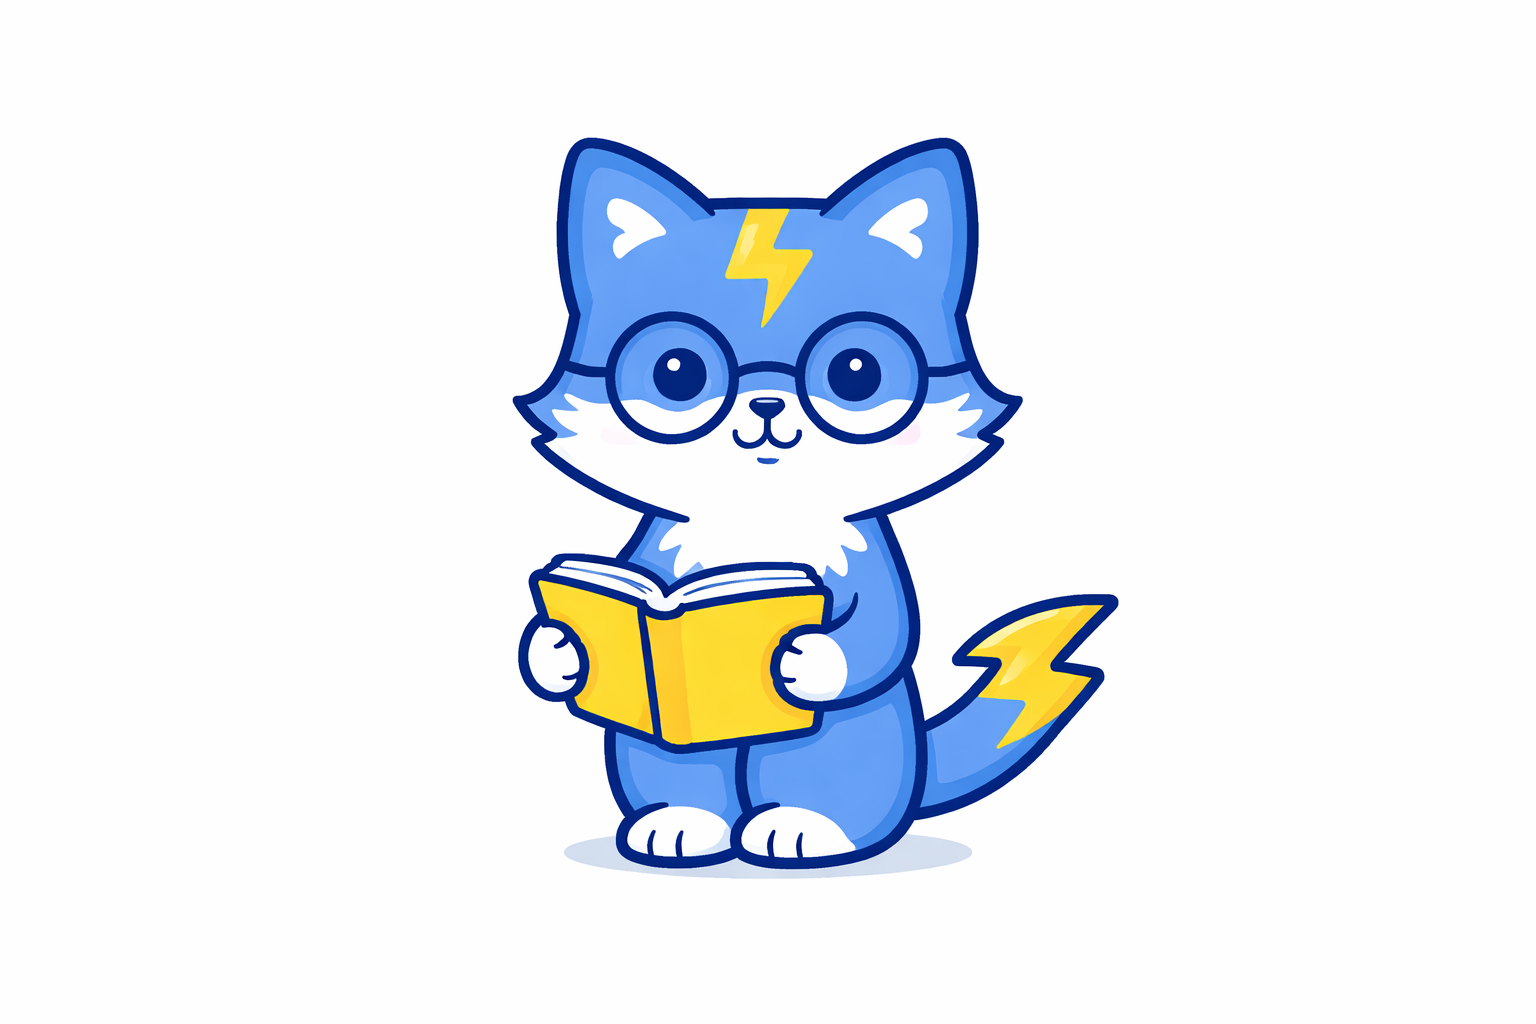
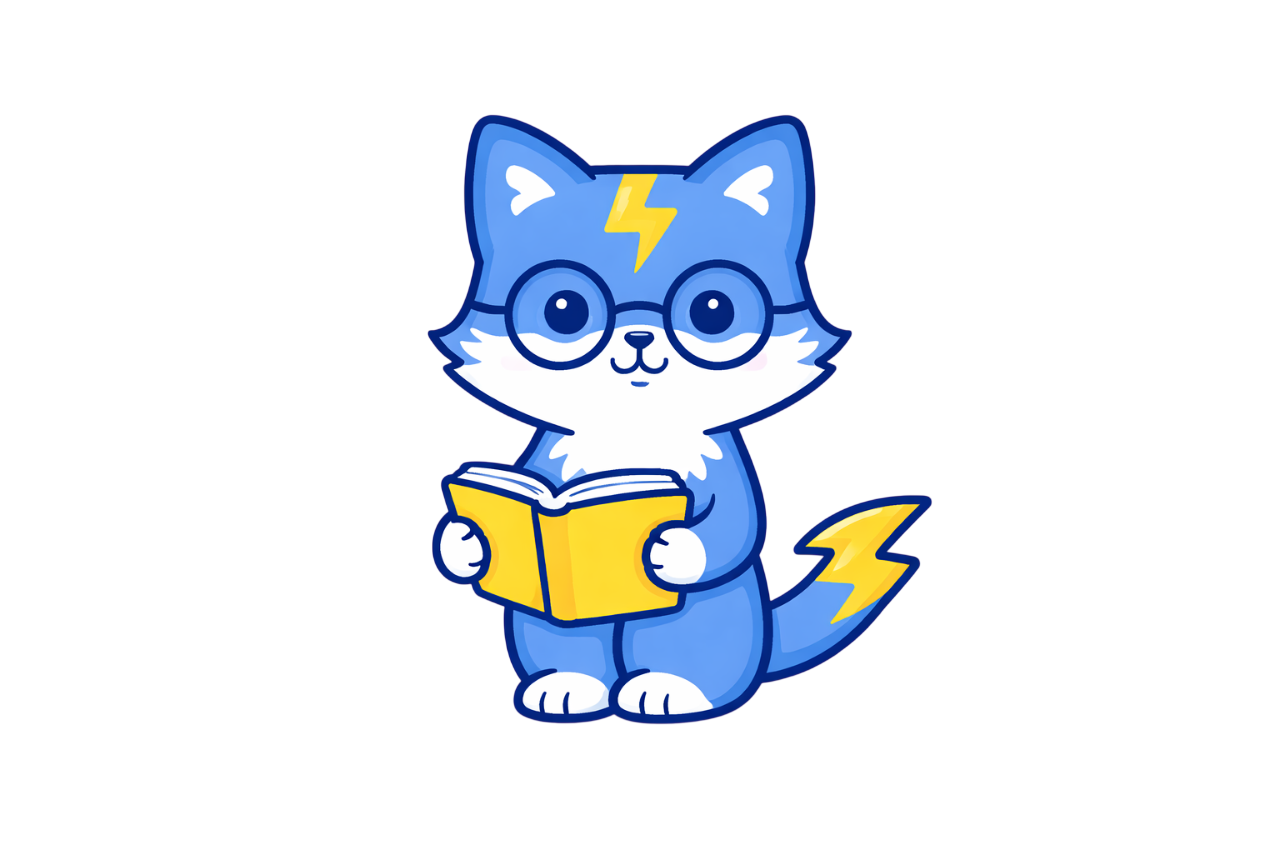
로그인 페이지

diff --git a/src/css/pages/login.css b/src/css/pages/login.css
@@ -1,0 +1,189 @@
+* {
+    margin: 0;
+    padding: 0;
+    box-sizing: border-box;
+}
+
+body {
+    background-color: #ffffff;
+    font-family: Arial, sans-serif;
+
+    display: flex;
+    justify-content: center;
+    align-items: center;
+    height: 100vh;
+}
+
+
+.login-container {
+    width: 1100px;
+    height: 447px;
+
+    background-color: #ffffff;
+    border: 1px solid #898A8D;
+
+    display: flex;
+    justify-content: center; 
+    align-items: center;
+
+    gap: 100px;              
+    padding: 40px;
+}
+
+
+.left-wrapper {
+    width: 350px;
+    position: relative;
+}
+
+.top-logo {
+    position: absolute;
+    top: 10px;
+    left: -180px;
+}
+
+.top-logo img {
+    margin-top: -30px;
+    width: 200px;
+}
+
+
+.login-left-area {
+    margin-left: 80px; 
+    margin-top: 20px;
+    display: flex;
+    flex-direction: column;
+}
+
+
+.login-left {
+    font-size: 26px;
+    font-weight: bold;
+    margin-bottom: 10px;
+}
+
+.input-box {
+    position: relative;
+    display: flex;
+    align-items: center;
+    width: 350px;
+    height: 45px;
+
+    border: 1px solid #898A8D;
+    margin-bottom: 30px;
+}
+
+.input-box:focus-within {
+    border: 1px solid #3A66E6;
+}
+
+.input-box span {
+    width: 60px;
+    text-align: center;
+    font-weight: bold;
+    color: #464A58;
+}
+
+.input-box input {
+    flex: 1;
+    height: 100%;
+    border: none;
+    outline: none;
+
+    padding-left: 10px;
+    font-size: 15px;
+    background-color: transparent;
+}
+
+.input-box.active {
+    border: 1px solid #3A66E6;
+}
+
+
+.password-box {
+    position: relative;
+}
+
+.toggle-pwd{
+    position: absolute;
+    right: 10px;
+    width: 20px;
+    height: 20px;
+    cursor: pointer;
+}
+
+.toggle-pwd.disabled {
+    pointer-events: none;
+    cursor: default;
+}
+
+.error-message {
+    position: absolute;
+    top: 48px;
+    left: 0;
+    width: 100%;
+    font-size: 12px;
+    color: #FF0000;
+    height: 8px;
+    margin-bottom: 5px;
+}
+
+
+button {
+    width: 600px;
+    height: 50px;
+
+    margin: 20px auto 0;
+
+    border: 2px solid #3A66E6;
+
+    background-color: #FFFFFF;
+    color: #3A66E6;
+
+    font-weight: bold;
+    font-size: 16px;
+
+    cursor: pointer;
+}
+
+button.active-btn {
+    background-color: #3A66E6;
+    color: #ffffff;
+}
+
+p {
+    width: 600px;
+    font-size: 14px;
+    color: #0B0D0F;
+    margin: 18px auto 0;
+    text-align: center;
+}
+
+a {
+    color: #3A66E6;
+    text-decoration: none;
+    font-weight: bold;
+}
+
+.divider {
+    width: 1px;
+    margin-top: -110px;
+    height: 220px;
+    background-color: #B3B4B8;   
+}
+
+
+.login-right {
+    width: 150px;
+    margin-bottom: 100px;
+    display: flex;
+    justify-content: center;
+    align-items: center;
+}
+
+
+.login-right img {
+    margin-right: 130px;
+    width: 450px;
+    margin-bottom: 20px;
+}

diff --git a/src/js/pages/login.js b/src/js/pages/login.js
@@ -1,0 +1,94 @@
+const idInput = document.getElementById("userid");
+const pwInput = document.getElementById("userpwd");
+const loginBtn = document.getElementById("loginBtn");
+const togglePw = document.querySelector(".toggle-pwd");
+const idError = document.getElementById("userid-error");
+const pwError = document.getElementById("password-error");
+
+
+function updateToggleState() {
+    if (pwInput.value.trim() === "") {
+        togglePw.classList.add("disabled");
+    } else {
+        togglePw.classList.remove("disabled");
+    }
+}
+togglePw.addEventListener("click", () => {
+    if (pwInput.value.trim() ==="") return;
+    if (pwInput.type === "password") {
+        pwInput.type = "text";
+        togglePw.src = "/asset/eyeson.svg";
+    } else {
+        pwInput.type = "password";
+        togglePw.src = "/asset/eyesclose.svg";
+    }
+});
+
+updateToggleState();
+
+pwInput.addEventListener("input", updateToggleState);
+
+function checkInput(input) {
+    const box = input.parentElement;
+
+    if (input.value.trim() !== "") {
+        box.classList.add("active");
+    } else {
+        box.classList.remove("active");
+    }
+
+    checkButton();
+}
+
+
+function checkButton() {
+    const id = idInput.value.trim();
+    const pw = pwInput.value.trim();
+
+    if (
+        id !== "" &&
+        pw.length >= 8 &&
+        pw.length <= 12
+    ) {
+        loginBtn.classList.add("active-btn");
+    } else {
+        loginBtn.classList.remove("active-btn");
+    }
+}
+
+idInput.addEventListener("input", () => checkInput(idInput));
+pwInput.addEventListener("input", () => checkInput(pwInput));
+
+loginBtn.addEventListener("click", () => {
+    const id = idInput.value.trim();
+    const pw = pwInput.value.trim();
+
+    let isValid = true;
+
+    if (id === "") {
+        idError.textContent = "아이디를 다시 확인해 주세요";
+        idInput.parentElement.classList.add("error");
+        isValid = false;
+    } else {
+        idError.textContent = "";
+        idInput.parentElement.classList.remove("error");
+    }
+
+    if (pw === "") {
+        pwError.textContent = "비밀번호를 다시 확인해 주세요";
+        pwInput.parentElement.classList.add("error");
+    } else if (pw.length < 8 || pw.length > 12) {
+        pwError.textContent = "비밀번호는 8~12자리여야 합니다";
+        pwInput.parentElement.classList.add("error");
+    } else {
+        pwError.textContent = "";
+        pwInput.parentElement.classList.remove("error");
+    }
+    if (
+        id !== "" &&
+        pw.length >= 8 &&
+        pw.length <= 12
+    ) {
+        alert("로그인 시도!"); // 나중에 서버 연결시 지워야댐 확인용임!!!
+    }
+});    

diff --git a/pages/login.html b/pages/login.html
@@ -1,33 +1,61 @@
 <!DOCTYPE html>
-<html lang="en">
+<html lang="ko">
 <head>
     <meta charset="UTF-8">
     <meta name="viewport" content="width=device-width, initial-scale=1.0">
     <title>로그인</title>
     <link rel="stylesheet" href="/src/css/pages/login.css"/>
 </head>
+
 <body>
-    <div class="top-logo">
-        <img src="/asset/logo.png" alt="로그인 로고" />
-    </div>
-    <div class="box">
-        <h2> 로그인 </h2>
 
-        <label for="userid">아이디</label>
-        <input type="text" id="userid" name="userid" placeholder="아이디를 입력해 주세요"/>
-        <div class="error-message" id="userid-error"></div>
+    <div class="login-container">
 
-        <label for="userpwd">비밀번호</label>
-        <input type="password" id="userpwd" name="userpwd" placeholder="비밀번호를 입력해 주세요">
+        <div class="left-wrapper">
 
-        <div class="error-message" id="password-error"></div>
-    </div>
+            <div class="top-logo">
+                <img src="/asset/logo.png" alt="로고">
+            </div>
 
-    <div class="bottom-area">
-        <button id="loginBtn">로그인</button>
-        <p>계정이 없으신가요? <a href="signup.html">회원가입</a></p>
+            <div class="login-left-area">
+                <div class="login-left">로그인</div>
+
+                <div class="input-box">
+                    <span>ID</span>
+                    <input type="text" id="userid" placeholder="아이디를 입력해 주세요">
+                    <div class="error-message" id="userid-error"></div>
+                </div>
+                
+                
+
+                <div class="input-box password-box">
+                    <span>PW</span>
+                    <input type="password" id="userpwd" placeholder="비밀번호를 입력해 주세요">
+                    <img src="/asset/eyesclose.svg" class="toggle-pwd" id="togglePwd">
+                    <div class="error-message" id="password-error"></div>
+                </div>
+                
+                    
+
+                <button id="loginBtn" type="button">로그인</button>
+
+                <p>
+                    계정이 없으신가요?
+                    <a href="signup.html">회원가입</a>
+                </p>
+            </div>
+
+        </div>
+        
+        <div class="divider"></div>
+
+        <div class="login-right">
+            <img src="/asset/mascot.png" alt="마스코트">
+        </div>
+
     </div>
 
     <script src="/src/js/pages/login.js"></script>
+
 </body>
 </html>
